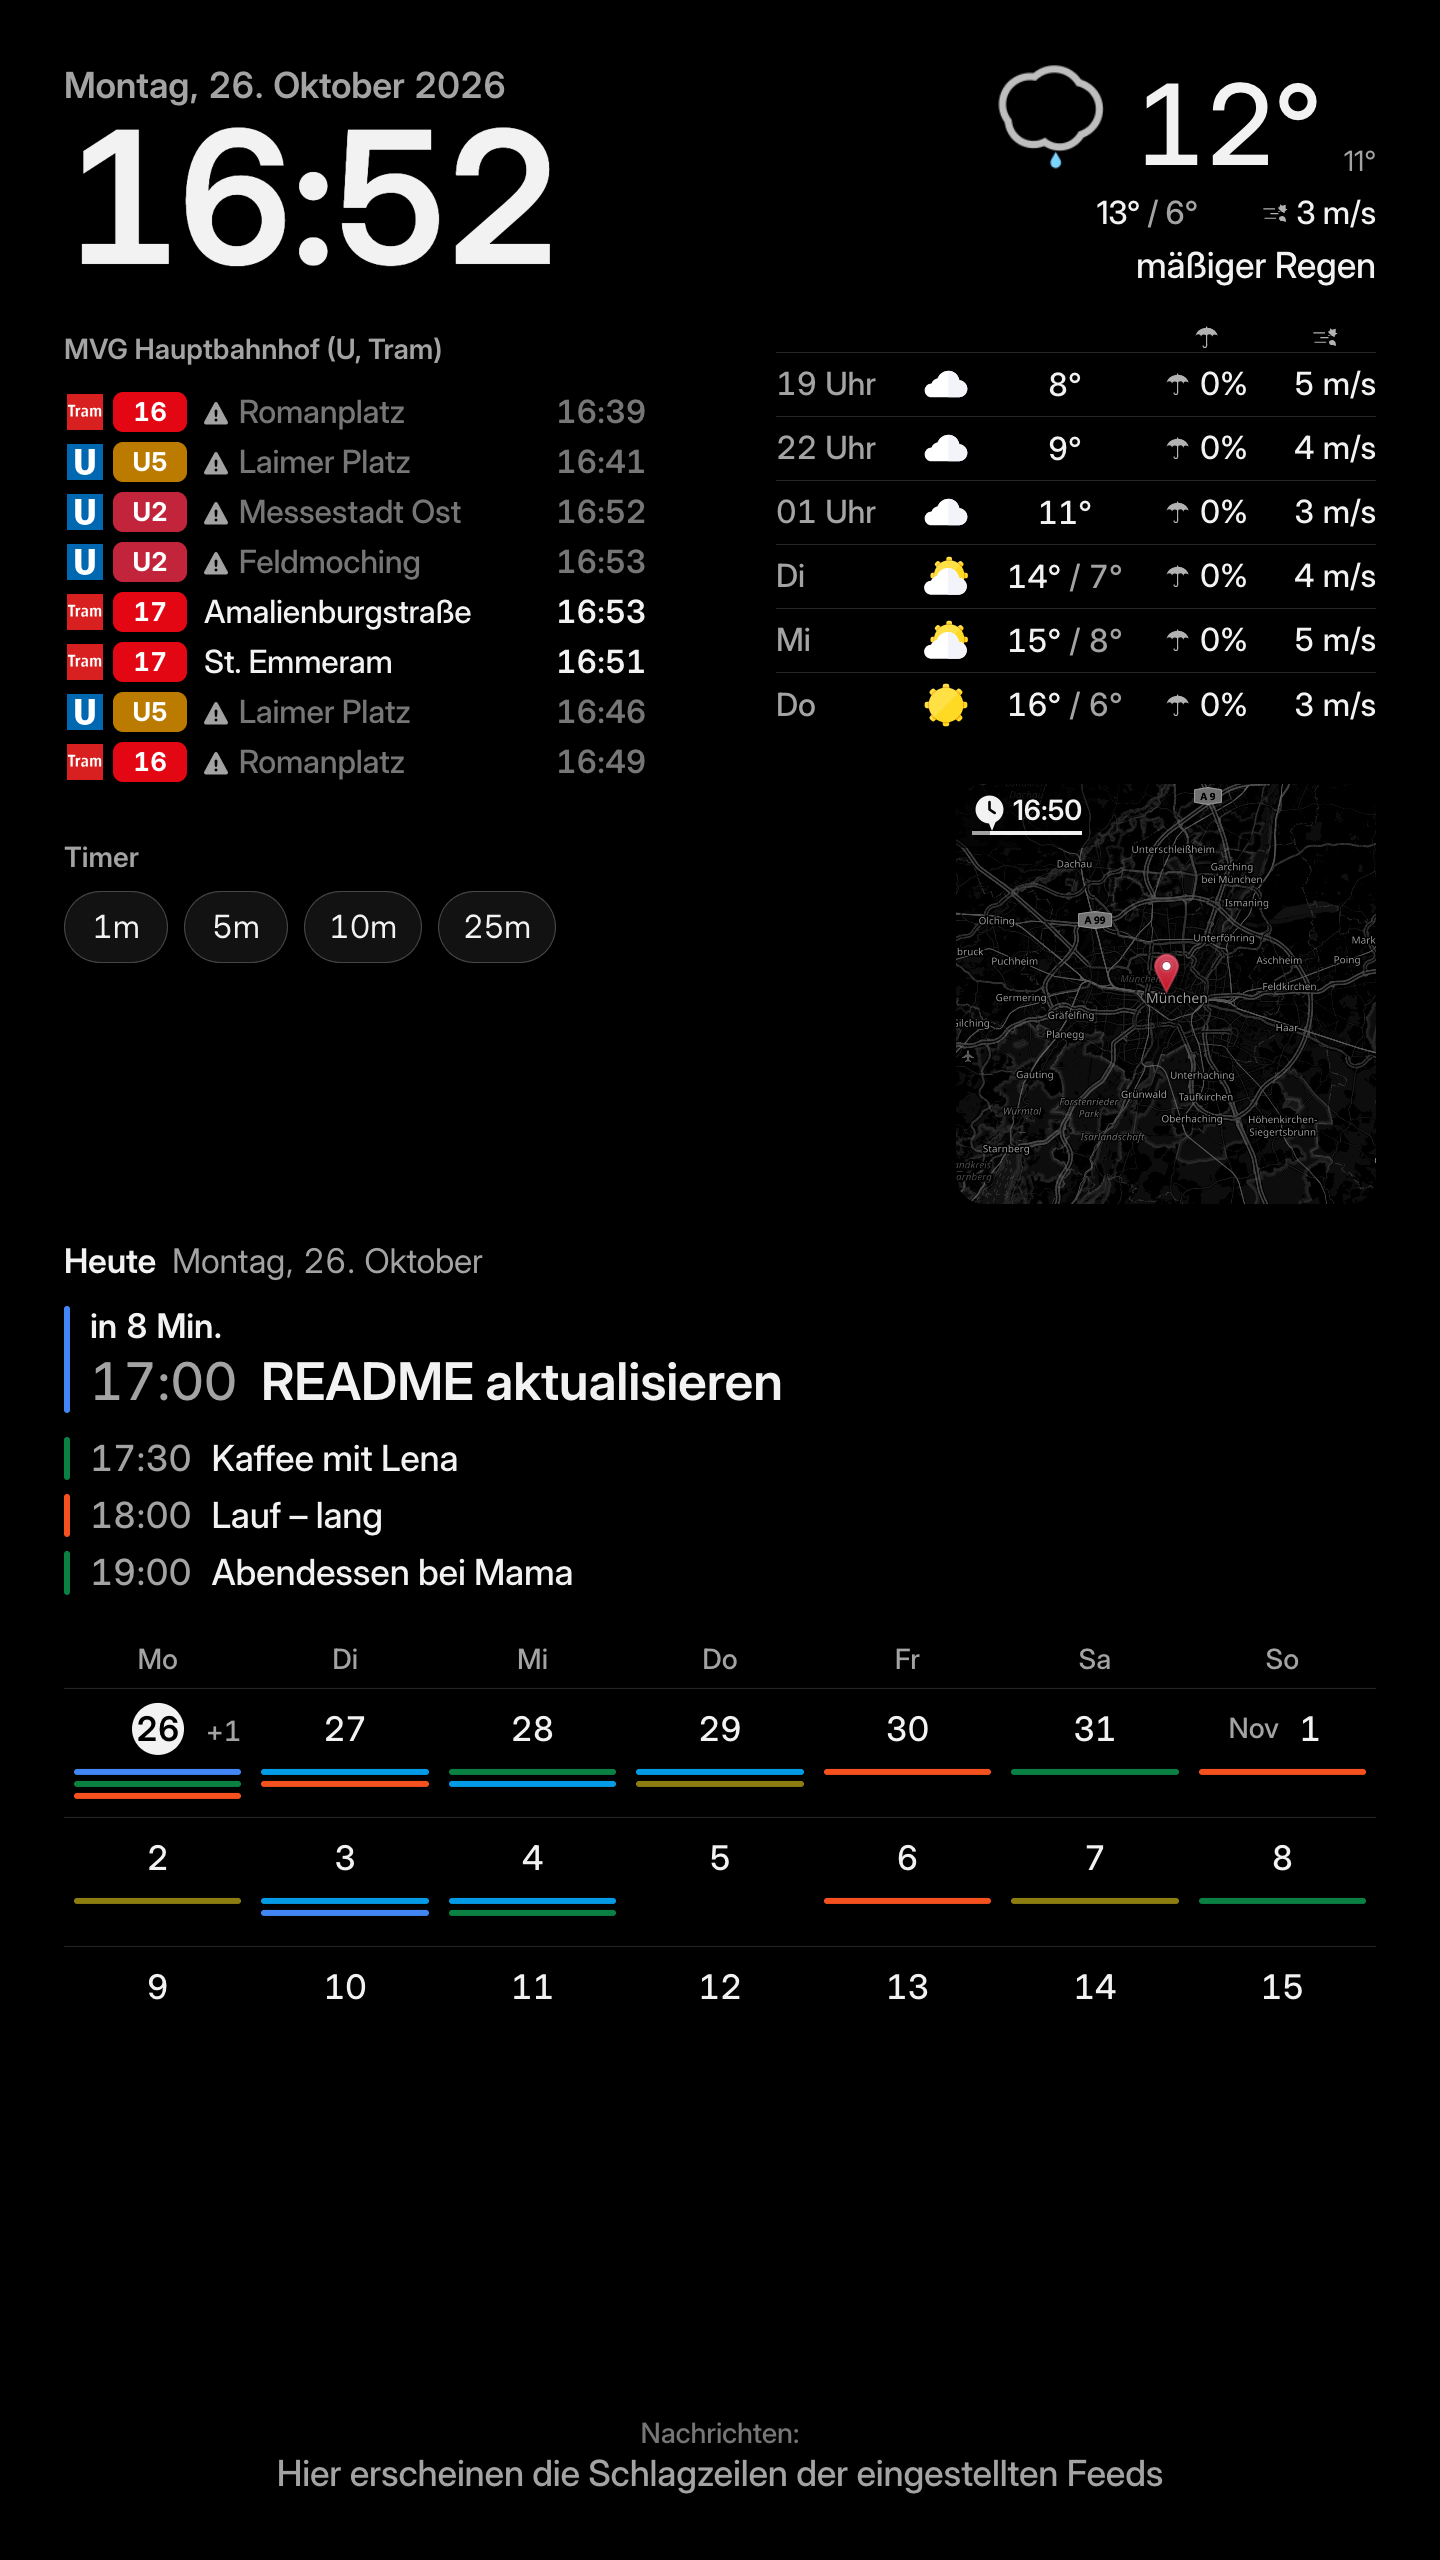
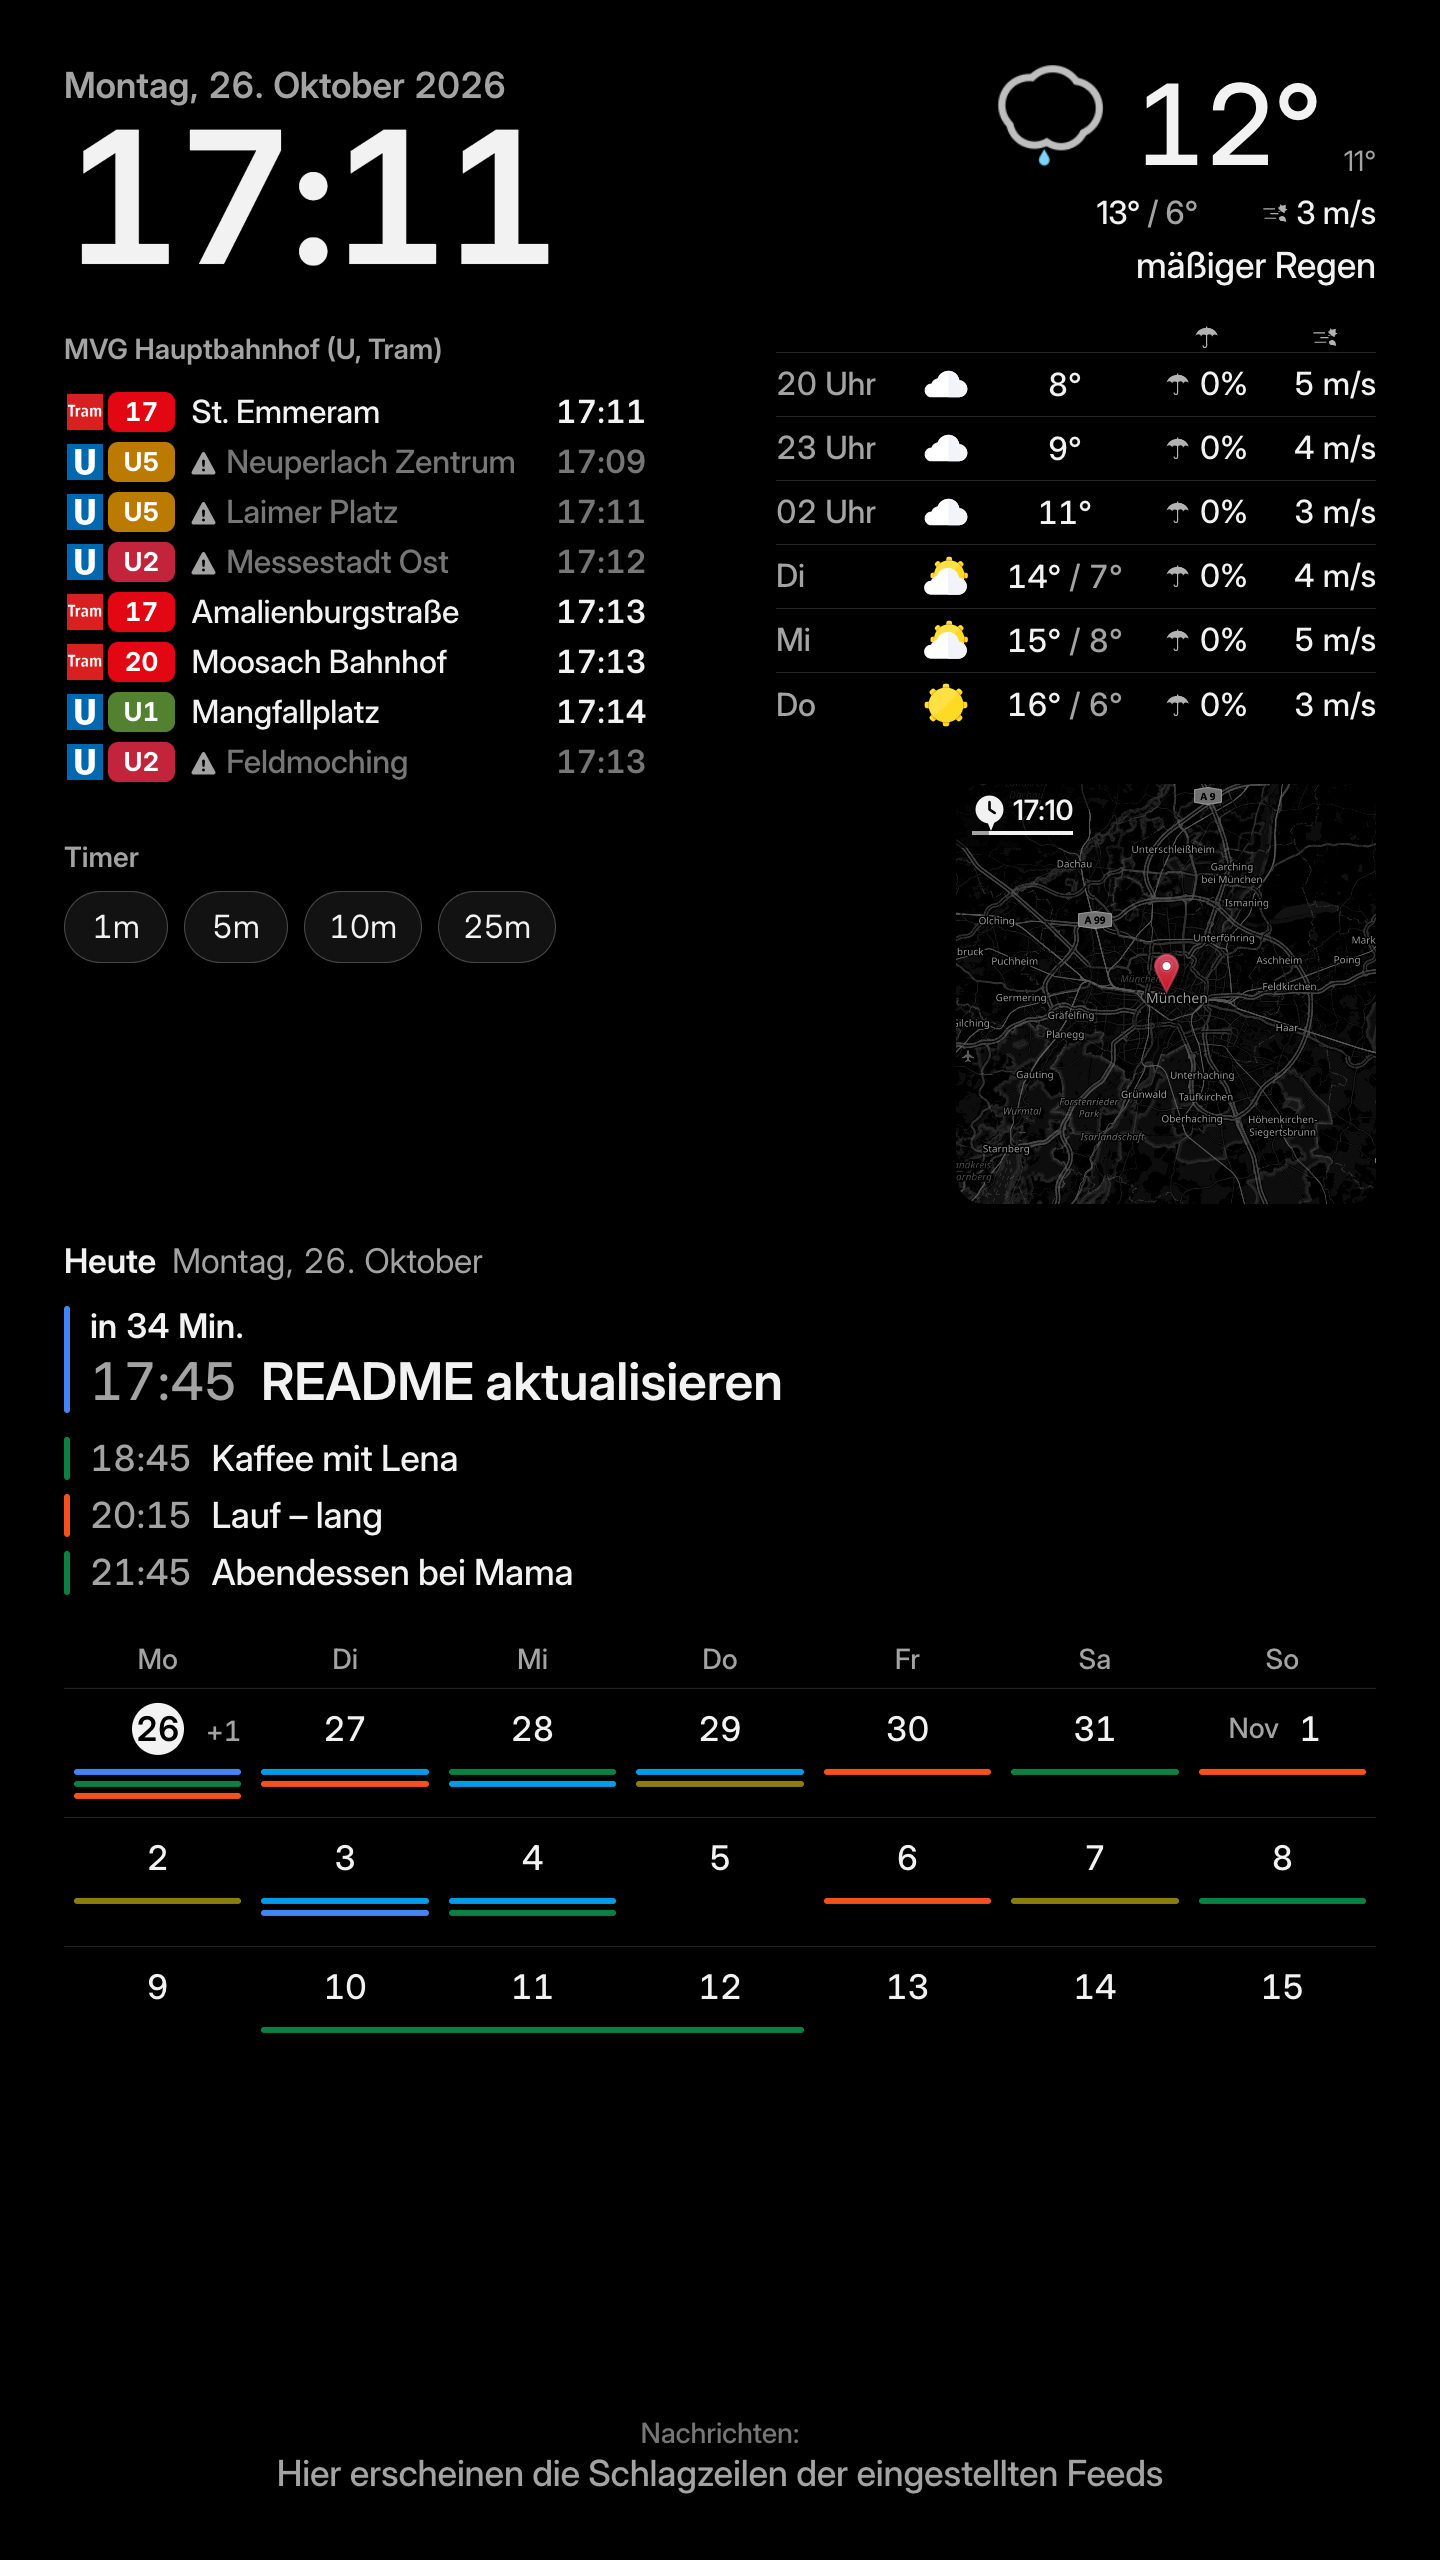
Demo: appointments from demo-calendar.ics, the credited track on page 2
- docs/demo/render/demo-calendar.ics holds the demo appointments as a
  real, editable iCalendar file: CATEGORIES picks one of the four feeds,
  times are relative to the render ({now+90m}, {day+2 09:00}, {day+13})
  so the calendar is never empty. mock-backend.js resolves them per
  request; the generated events in code are gone.
- The now-playing card shows "I'll Be Right Behind You, Josephine" by
  Josh Woodward (CC BY 4.0), the track the README credits. Its lyrics
  are not reproduced; placeholder lines stand in, as the mirror loads
  them live.
- The tour holds the calendar page for 5.5 s instead of 3.5 s.

README credits back to "the track shown in the demo".

diff --git a/docs/demo/render/mock-backend.js b/docs/demo/render/mock-backend.js
@@ -2,7 +2,8 @@
  *
  *   /owm          OpenWeatherMap One Call 3.0 (MOCK_RAIN=1: raining now, so
  *                 MMM-RAIN-MAP shows up)
- *   /<name>.ics   the four calendars of config.js, relative to today
+ *   /<name>.ics   the four calendars of config.js, from demo-calendar.ics
+ *                 (CATEGORIES picks the feed; times relative to now, see there)
  *   /news.rss     a neutral news feed
  *   /cover.svg    cover art for the now-playing card
  *
@@ -11,9 +12,12 @@
 
 "use strict";
 
+const fs = require("node:fs");
 const http = require("node:http");
+const path = require("node:path");
 
 const PORT = Number(process.argv[2] || 8099);
+const CALENDAR = path.join(__dirname, "demo-calendar.ics");
 const H = 3600, D = 86400;
 
 function owm () {
@@ -51,58 +55,48 @@ const pad = (n) => String(n).padStart(2, "0");
 const stamp = (d) => `${d.getFullYear()}${pad(d.getMonth() + 1)}${pad(d.getDate())}T${pad(d.getHours())}${pad(d.getMinutes())}00`;
 const day = (d) => `${d.getFullYear()}${pad(d.getMonth() + 1)}${pad(d.getDate())}`;
 
-function at (dayOffset, hour, minute = 0) {
-	const d = new Date();
-	d.setDate(d.getDate() + dayOffset);
-	d.setHours(hour, minute, 0, 0);
-	return d;
+// Resolves the relative times of demo-calendar.ics:
+//   {now+90m}      now + 90 minutes, rounded up to the quarter hour; kept
+//                  within today so the today panel always has it
+//   {day+2 09:00}  local date and time
+//   {day+13}       date only, for DTSTART;VALUE=DATE
+function resolve (token, property) {
+	let m = token.match(/^now\+(\d+)m$/);
+	if (m) {
+		const d = new Date(Date.now() + Number(m[1]) * 60000);
+		d.setMinutes(Math.ceil(d.getMinutes() / 15) * 15, 0, 0);
+		const limit = new Date();
+		limit.setHours(23, property === "DTEND" ? 59 : 30, 0, 0);
+		return stamp(d < limit ? d : limit);
+	}
+	m = token.match(/^day\+(\d+)(?: (\d\d):(\d\d))?$/);
+	if (m) {
+		const d = new Date();
+		d.setDate(d.getDate() + Number(m[1]));
+		if (m[2] === undefined) return day(d);
+		d.setHours(Number(m[2]), Number(m[3]), 0, 0);
+		return stamp(d);
+	}
+	throw new Error(`demo-calendar.ics: unknown time {${token}}`);
 }
 
-// [summary, days from today, hour (null = all day), minute, minutes long]
-// Today's events sit a few hours ahead, so the today panel is never empty.
-function calendars () {
-	const h = new Date().getHours();
-	const later = (n) => Math.min(h + n, 23);
-	return {
-		personal: [
-			["Kaffee mit Lena", 0, later(1), 30, 60],
-			["Abendessen bei Mama", 0, later(3), 0, 90],
-			["Zahnarzt", 2, 9, 0, 60],
-			["Wohnungsübergabe", 5, 11, 0, 60],
-			["Kino", 9, 20, 0, 150],
-			["Geburtstag Lena", 13, null]
-		],
-		claude: [
-			["README aktualisieren", 0, later(1), 0, 30],
-			["Standup", 1, 9, 30, 15], ["Standup", 2, 9, 30, 15], ["Standup", 3, 9, 30, 15],
-			["Standup", 8, 9, 30, 15], ["Standup", 9, 9, 30, 15], ["Sprint Planning", 8, 13, 0, 90]
-		],
-		sport: [
-			["Lauf – lang", 0, later(2), 0, 60],
-			["Gym – Kraft", 1, 18, 0, 75], ["Gym – Kraft", 4, 18, 0, 75],
-			["Rennrad Starnberger See", 6, 10, 0, 180], ["Gym – Kraft", 11, 18, 0, 75]
-		],
-		kultur: [
-			["Staatsoper", 3, 19, 30, 180],
-			["Pinakothek", 7, null], ["Lesung Literaturhaus", 12, 20, 0, 90]
-		]
-	};
-}
-
-function ics (name, events) {
-	const lines = ["BEGIN:VCALENDAR", "VERSION:2.0", "PRODID:-//raspberrypi-magicmirror//demo//DE", `X-WR-CALNAME:${name}`];
-	events.forEach(([summary, off, h, m, dur], i) => {
-		lines.push("BEGIN:VEVENT", `UID:${name}-${i}@demo`, `DTSTAMP:${stamp(new Date())}`, `SUMMARY:${summary}`);
-		if (h === null) {
-			lines.push(`DTSTART;VALUE=DATE:${day(at(off, 0))}`, `DTEND;VALUE=DATE:${day(at(off + 1, 0))}`);
-		} else {
-			const s = at(off, h, m);
-			lines.push(`DTSTART:${stamp(s)}`, `DTEND:${stamp(new Date(s.getTime() + dur * 60000))}`);
+// One feed per CATEGORIES value, read fresh on every request
+function ics (feed) {
+	const events = fs.readFileSync(CALENDAR, "utf8").split(/BEGIN:VEVENT\r?\n/).slice(1)
+		.map((block) => block.split(/\r?\nEND:VEVENT/)[0].split(/\r?\n/))
+		.filter((lines) => lines.includes(`CATEGORIES:${feed}`));
+	if (events.length === 0) return null;
+	const out = ["BEGIN:VCALENDAR", "VERSION:2.0", "PRODID:-//raspberrypi-magicmirror//demo//DE", `X-WR-CALNAME:${feed}`];
+	events.forEach((lines, i) => {
+		out.push("BEGIN:VEVENT", `UID:${feed}-${i}@demo`, `DTSTAMP:${stamp(new Date())}`);
+		for (const line of lines) {
+			const property = line.split(/[;:]/)[0];
+			out.push(line.replace(/\{([^}]+)\}/g, (_, token) => resolve(token, property)));
 		}
-		lines.push("END:VEVENT");
+		out.push("END:VEVENT");
 	});
-	lines.push("END:VCALENDAR");
-	return lines.join("\r\n");
+	out.push("END:VCALENDAR");
+	return out.join("\r\n");
 }
 
 function rss () {
@@ -133,7 +127,7 @@ http.createServer((req, res) => {
 	if (pathname === "/news.rss") return send("application/rss+xml; charset=utf-8", rss());
 	if (pathname === "/cover.svg") return send("image/svg+xml", COVER);
 	const cal = pathname.match(/^\/(\w+)\.ics$/);
-	const all = calendars();
-	if (cal && all[cal[1]]) return send("text/calendar; charset=utf-8", ics(cal[1], all[cal[1]]));
+	const feed = cal && ics(cal[1]);
+	if (feed) return send("text/calendar; charset=utf-8", feed);
 	res.writeHead(404).end();
 }).listen(PORT, () => console.log(`demo backend on http://localhost:${PORT}`));

diff --git a/docs/demo/render/capture.js b/docs/demo/render/capture.js
@@ -35,6 +35,14 @@ const COVER_COLOURS = {
 	"--ONSP-VIBRANT-DOMINANTBRIGHT": "#dfe8d2", "--ONSP-VIBRANT-DOMINANTDARK": "#1d2a14"
 };
 
+// The track from the README credits: Josh Woodward, CC BY 4.0
+// (https://www.joshwoodward.com/). Its lyrics are not reproduced here --
+// the mirror fetches them live; the demo shows placeholder lines.
+const TRACK = {
+	name: "I'll Be Right Behind You, Josephine",
+	artist: "Josh Woodward"
+};
+
 const LYRICS = [
 	"Hier laufen die Lyrics zum Song,",
 	"Zeile für Zeile, groß und fett,",
@@ -70,19 +78,19 @@ async function warmUp (page) {
 }
 
 async function startPlayback (page) {
-	await page.evaluate(async (cover, colours, lyrics) => {
+	await page.evaluate(async (cover, colours, lyrics, song) => {
 		for (const [k, v] of Object.entries(colours)) document.documentElement.style.setProperty(k, v);
 		const lily = MM.getModules().find((m) => m.name === "MMM-LiveLyrics");
 		// Its helper would answer "no lyrics" for the demo token; keep only ours
 		const original = lily.socketNotificationReceived.bind(lily);
 		lily.socketNotificationReceived = (n, p) => (n === "LYRICS" && !(p && p.demo) ? undefined : original(n, p));
-		const track = { playerIsEmpty: false, isPlaying: true, uri: "spotify:track:demo", name: "Demo-Titel", artist: "Demo-Band", artists: "Demo-Band", image: cover };
+		const track = { playerIsEmpty: false, isPlaying: true, uri: "spotify:track:demo", name: song.name, artist: song.artist, artists: song.artist, image: cover };
 		MM.getModules().find((m) => m.name === "clock").sendNotification("NOW_PLAYING", track);
 		await new Promise((r) => setTimeout(r, 400));
 		lily.upstreamNotFound = false;
 		lily.onSpotifyVersionMismatch = null;
 		lily.socketNotificationReceived("LYRICS", { demo: true, uri: track.uri, lyrics });
-	}, `${mock}/cover.svg`, COVER_COLOURS, LYRICS);
+	}, `${mock}/cover.svg`, COVER_COLOURS, LYRICS, TRACK);
 }
 
 async function main () {
@@ -115,7 +123,7 @@ async function main () {
 		console.log("pass 2: tour");
 		await warmUp(page);
 		const recorder = await page.screencast({ path: videoPath, scale: 0.3125 });
-		await sleep(3500);
+		await sleep(5500);  // the calendar page is the one with the most to read
 		await send(page, "PAGE_CHANGED", 1);
 		await sleep(3500);
 		await startPlayback(page);

diff --git a/README.md b/README.md
@@ -19,8 +19,9 @@ What makes it more than a dashboard is that the display reacts to state instead 
 Pages 0 and 1 rotate slowly while nothing is playing. Page 2 appears on its own when playback starts. The guest page is hidden and shown on request.
 The clock, the kitchen timer and system alerts stay on every page. The rain radar joins pages 0 and 1 only while it rains.
 
-<sub>Rendered from this repository's `config/config.js` with demo data for the calendars, weather and news;
-departures and radar are live. Regenerate with [`docs/demo/render/render.sh`](docs/demo/render/render.sh).</sub>
+<sub>Rendered from this repository's `config/config.js` with demo data for the calendars
+([`demo-calendar.ics`](docs/demo/render/demo-calendar.ics)), weather and news; departures and radar are live.
+Regenerate with [`docs/demo/render/render.sh`](docs/demo/render/render.sh).</sub>
 
 ### How the pages are driven
 
@@ -171,7 +172,9 @@ docs/demo/render/render.sh
 
 On the development machine it builds a throwaway MagicMirror with `bootstrap.sh` — the same pins, patches
 and stylesheet as on the Pi — swaps the secrets for a local demo backend, and drives the pages in headless
-Chrome. Needs Chrome, ffmpeg and GNU sed; details in the script's header.
+Chrome. The appointments come from [`demo-calendar.ics`](docs/demo/render/demo-calendar.ics), with times
+relative to the render so the calendar is never empty. Needs Chrome, ffmpeg and GNU sed; details in the
+script's header.
 
 ---
 
@@ -202,6 +205,7 @@ licenses; see the linked repositories.
 
 ## Credits
 
-The track in the 1.0 demo recording [`docs/demo/demo_magicmirror.mp4`](docs/demo/demo_magicmirror.mp4) is
-*I'll Be Right Behind You, Josephine* by [Josh Woodward](https://www.joshwoodward.com/), licensed under
-[CC BY 4.0](https://creativecommons.org/licenses/by/4.0/). The rendered demo uses placeholder text.
+The track shown in the demo is *I'll Be Right Behind You, Josephine* by
+[Josh Woodward](https://www.joshwoodward.com/), licensed under
+[CC BY 4.0](https://creativecommons.org/licenses/by/4.0/). The rendered pictures show placeholder lines in
+place of its lyrics, which the mirror loads live.

diff --git a/CHANGELOG.md b/CHANGELOG.md
@@ -40,7 +40,7 @@ fixes behaviour.
   `fonts-inter-variable`, otherwise Roboto
 - `docs/demo/render/render.sh`: renders the README screenshots and the demo GIF from `config/config.js` in
   headless Chrome, on a throwaway MagicMirror built by `bootstrap.sh`, with a demo backend in place of the
-  secrets
+  secrets; appointments from `docs/demo/render/demo-calendar.ics`, times relative to the render
 
 ### Changed
 
